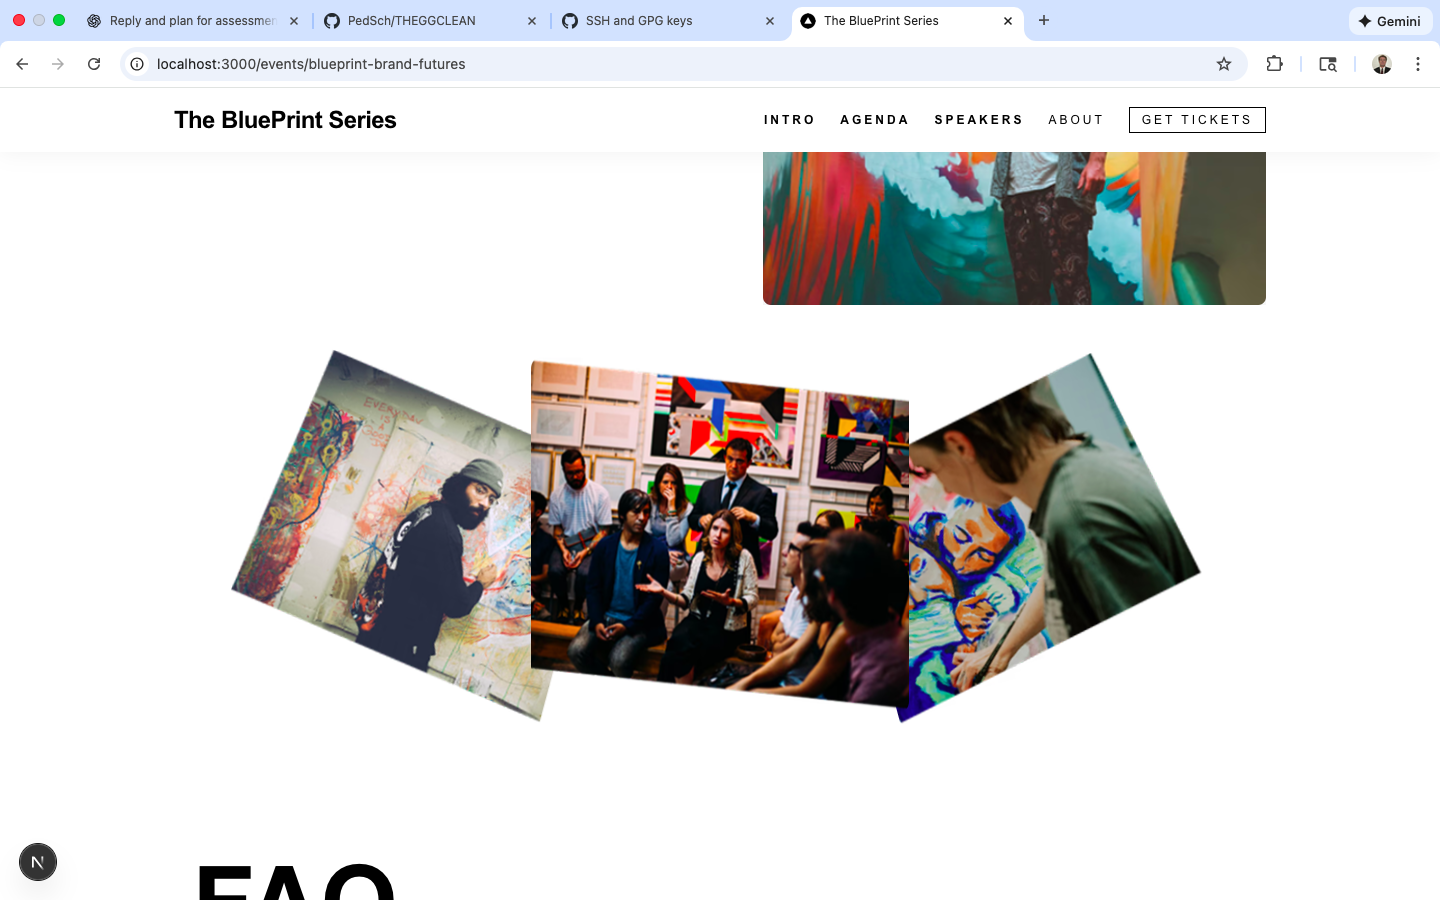
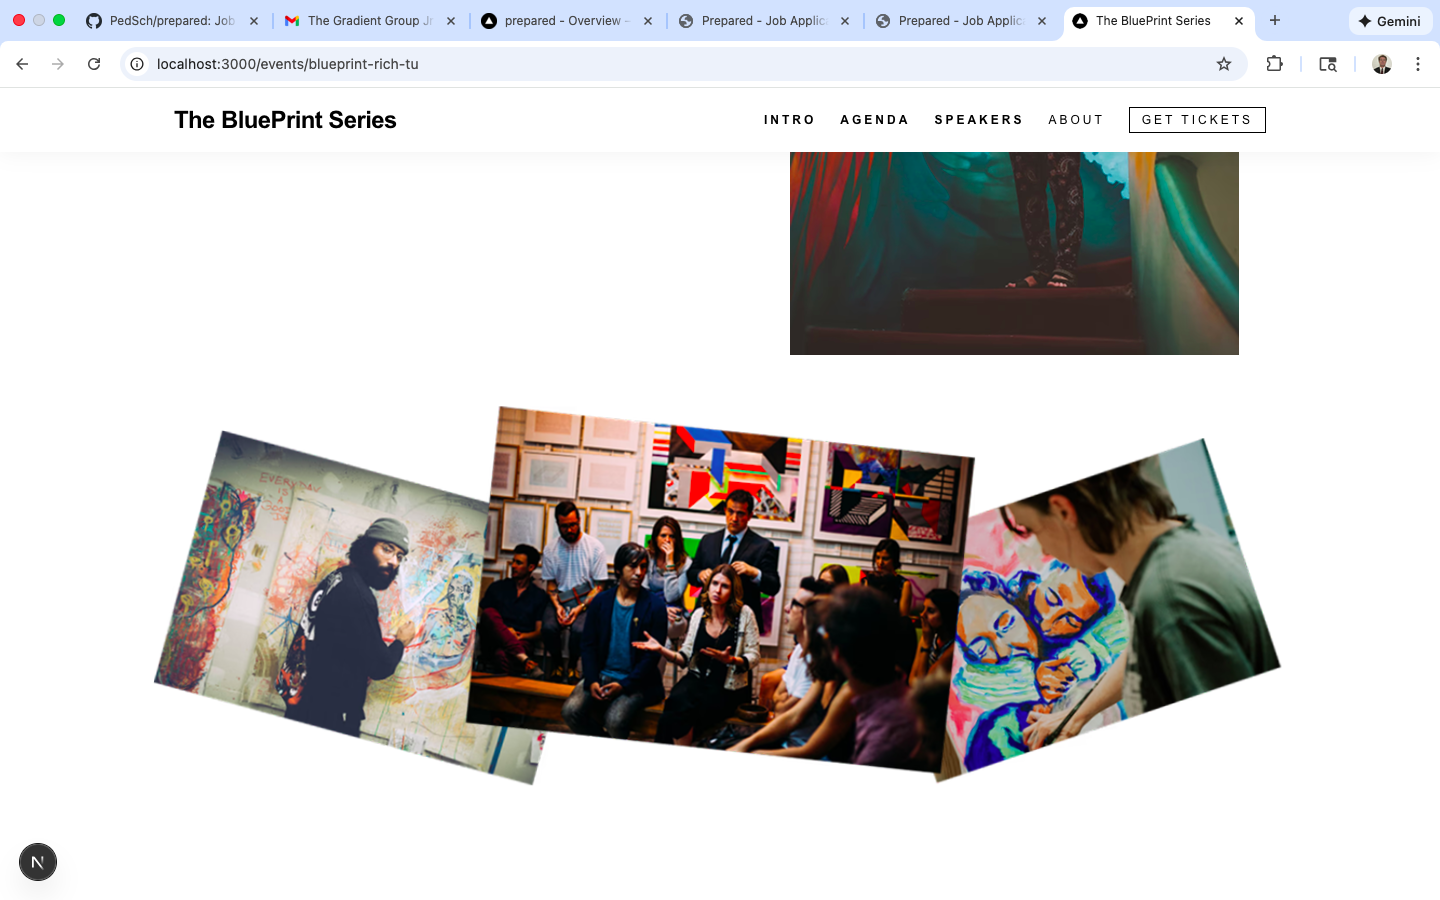
middle

diff --git a/frontend/src/app/events/[slug]/page.jsx b/frontend/src/app/events/[slug]/page.jsx
@@ -253,12 +253,6 @@ export default async function EventPage({ params }) {
             `}
             style={{ objectFit: 'cover', objectPosition }}
           />
-
-          {/* text overlay */}
-          <div className="absolute inset-0 flex flex-col justify-end pb-5 px-4 pointer-events-none">
-            <p className="text-base font-medium text-white">{pe.name}</p>
-            <p className="text-sm text-neutral-200">{pe.location}</p>
-          </div>
         </div>
       );
     })}
